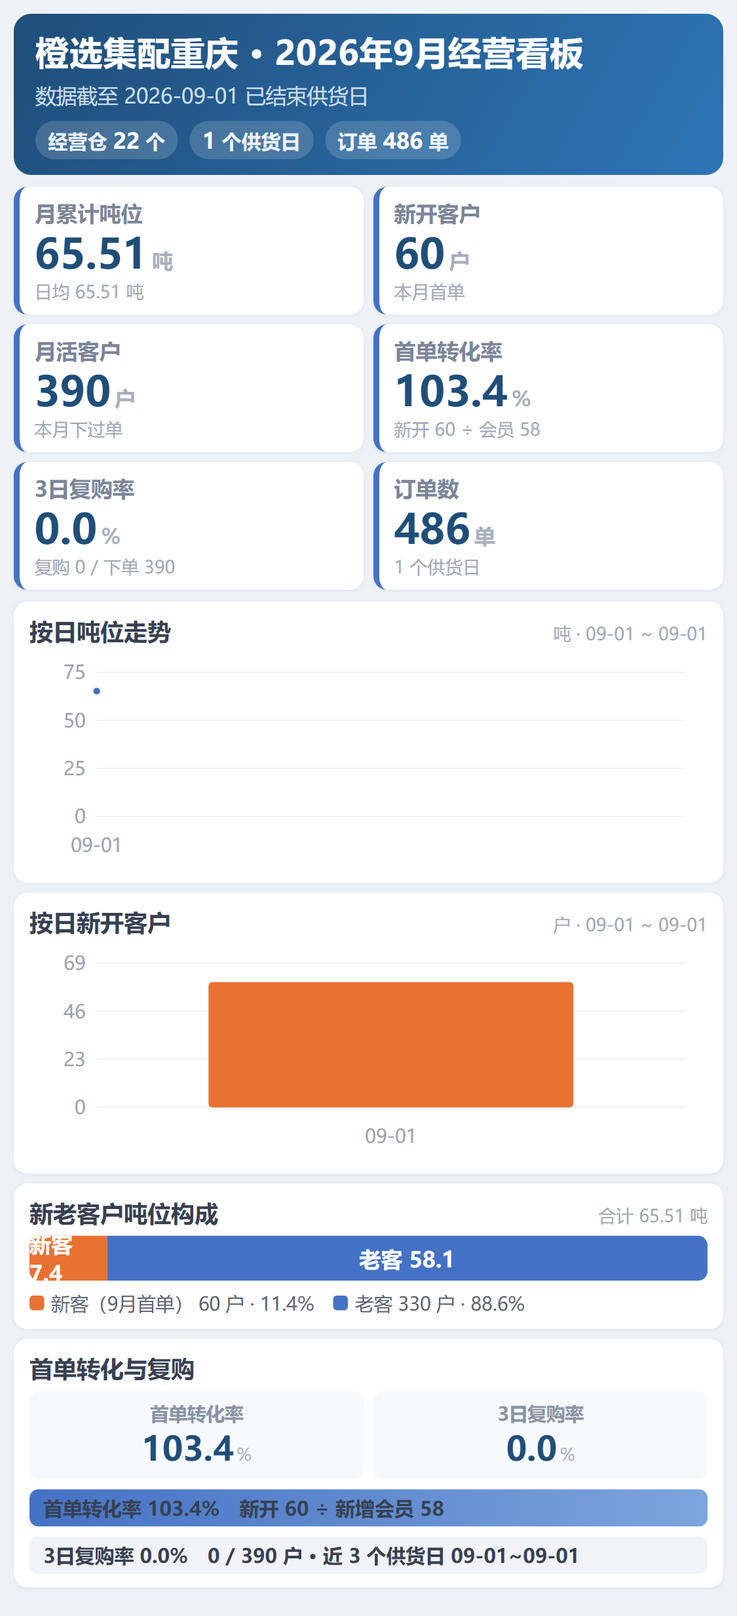
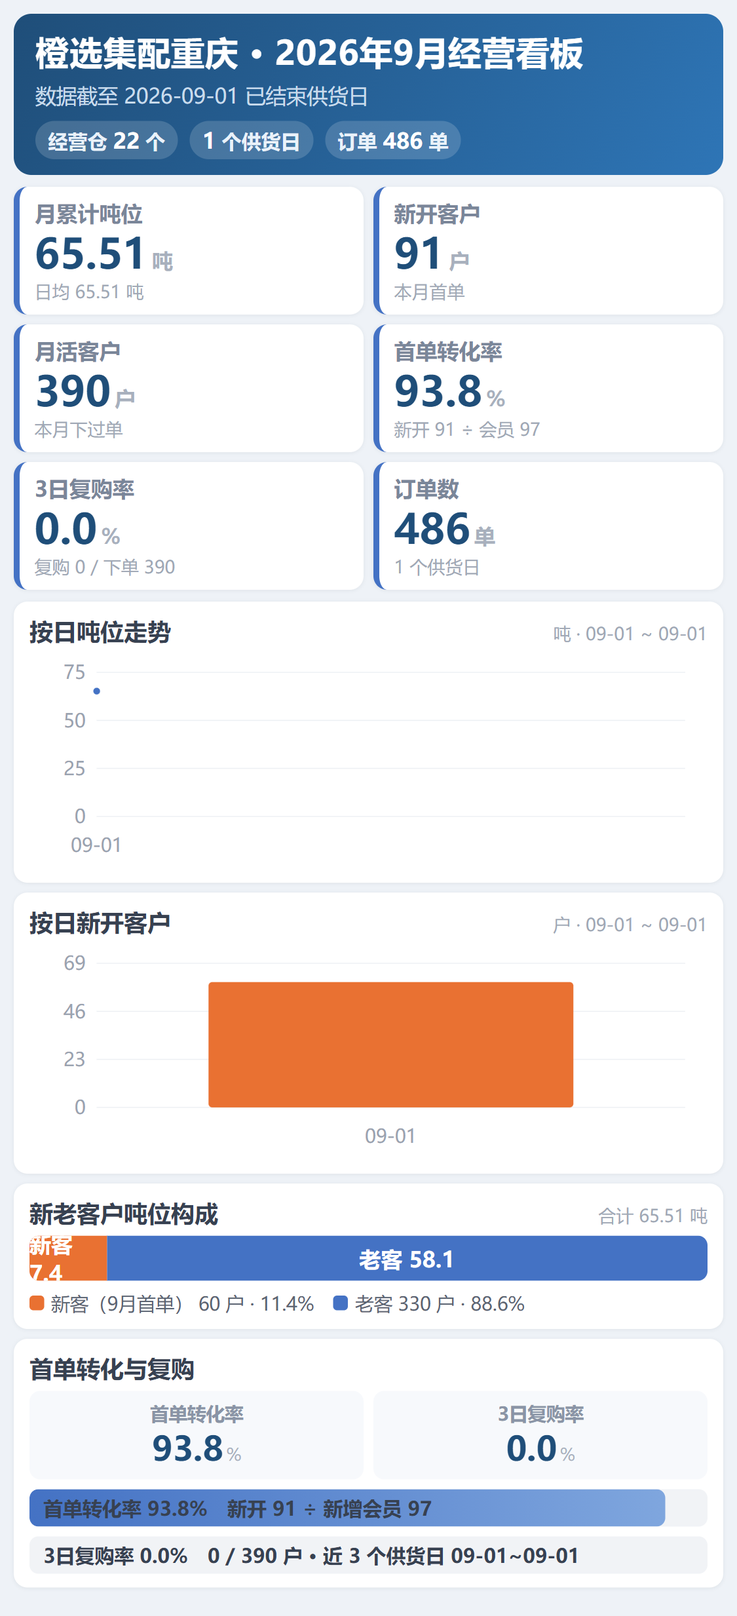
自动更新日报图片

diff --git a/RunBoard_202609.html b/RunBoard_202609.html
@@ -135,7 +135,7 @@ font-weight:800;display:flex;align-items:center;justify-content:center;flex:none
 <div class="wrap">
   <div class="hdr">
     <div class="brand">橙选集配重庆 · 2026年9月经营看板</div>
-    <div class="sub">数据截至 2026-09-01 供货日（已完成） · 抓取 2026-09-01 18:07</div>
+    <div class="sub">数据截至 2026-09-01 供货日（已完成） · 抓取 2026-09-02 14:43</div>
   </div>
 
   <div class="tabs">
@@ -199,7 +199,7 @@ font-weight:800;display:flex;align-items:center;justify-content:center;flex:none
     <div id="shCat"></div>
   </div>
 </div>
-<script>window.__DATA__ = {"total": {"ton": 65.51, "stat_day": "09-01", "stat_day_full": "2026-09-01", "last_day": "2026-09-01", "last_day_ton": 65.51, "new_cust": 60, "new_member": 58, "month_active": 390, "first_conv": 1.0344827586206897, "first_conv_strict": 0.25862068965517243, "new_and_reg": 15, "r3": {"base": 390, "repeat": 0, "rate": 0.0, "d1": 390, "d2": 0, "d3": 0}, "days": 1, "order_cnt": 486, "avg_day_ton": 65.51, "done_days": 1, "done_ton": 65.51, "recent3": ["09-01"], "plat_new_n": 60, "plat_new_ton": 7.44, "plat_old_n": 330, "plat_old_ton": 58.07, "wh_active_n": 22, "wh_closed_n": 0, "wh_total_n": 22, "active_month_active": 390, "active_order_cnt": 486, "active_ton": 65.51, "active_r3": {"base": 390, "repeat": 0, "rate": 0.0, "d1": 390, "d2": 0, "d3": 0}, "new_in_active": 60, "active_first_conv": 1.0344827586206897, "plat_top_cust": [{"name": "冉兴兰", "ton": 13.3}, {"name": "闫四", "ton": 1.34}, {"name": "惠优水果超市一校店", "ton": 1.25}, {"name": "杨超伟", "ton": 1.25}, {"name": "老板", "ton": 1.23}, {"name": "罗老板", "ton": 1.1}, {"name": "刘颖", "ton": 1.09}, {"name": "宏展超市", "ton": 1.07}, {"name": "城西二楼116刘群华", "ton": 0.93}, {"name": "小刘蔬菜", "ton": 0.64}], "plat_top_item": [{"name": "【品牌】云南一级洗小葱26斤泡沫箱", "cust": 62, "ton": 4.96}, {"name": "云南昭通一级油麦菜大件大颗油麦菜泡沫箱", "cust": 45, "ton": 3.46}, {"name": "云南一级香菜19斤泡沫箱", "cust": 45, "ton": 1.09}, {"name": "云南一级筐西红柿粉果带把毛重40-42斤", "cust": 37, "ton": 1.26}, {"name": "云南二级油麦菜净重32斤泡沫箱", "cust": 29, "ton": 0.9}, {"name": "云南一级基地直供生菜大件泡沫箱", "cust": 28, "ton": 1.16}, {"name": "老挝B级活动款香蕉二黄24斤/件4-5号色", "cust": 26, "ton": 1.41}, {"name": "云南一级大水白菜泡沫箱大件", "cust": 21, "ton": 0.65}, {"name": "陕西省一级陕西沙地3两至6两黄心大土豆袋3两至6两", "cust": 20, "ton": 0.7}, {"name": "兰州一级散花菜30斤/件泡沫箱", "cust": 20, "ton": 0.56}], "plat_top_cat": [{"name": "蔬菜", "ton": 58.15}, {"name": "国产水果", "ton": 6.03}, {"name": "酒水饮料", "ton": 0.46}, {"name": "米面油蛋", "ton": 0.44}, {"name": "进口精品水果", "ton": 0.33}, {"name": "调料干货", "ton": 0.06}, {"name": "果篮/包材", "ton": 0.04}]}, "wh": [{"wh": "南川仓", "day_ton": 13.303799999999999, "recent3_ton": 13.304, "status": "active", "month_ton": 13.303799999999999, "avg_ton": 13.303799999999999, "active": 1, "order_cnt": 7, "per_order_ton": 1.900542857142857, "per_cust_ton": 13.303799999999999, "r3_base": 1, "r3_repeat": 0, "r3_rate": 0.0, "detail": {"series": [{"day": "09-01", "ton": 13.304}], "new_n": 0, "new_ton": 0, "old_n": 1, "old_ton": 13.3, "top_cust": [{"name": "冉兴兰", "ton": 13.3}], "top_item": [{"name": "云南二级李二水洗葱细小葱泡沫箱", "cust": 1, "ton": 7.06}, {"name": "陕西省一级陕西黄心土豆6两起袋净重50斤", "cust": 1, "ton": 2.51}, {"name": "重庆二级蜜本老南瓜80斤/袋", "cust": 1, "ton": 1.2}, {"name": "广西二级密本南瓜老南瓜", "cust": 1, "ton": 0.72}, {"name": "老挝B级【能驰果品】二级香蕉二黄24斤4-5号色", "cust": 1, "ton": 0.56}], "top_cat": [{"name": "蔬菜", "ton": 12.39}, {"name": "国产水果", "ton": 0.91}]}}, {"wh": "巴中仓", "day_ton": 7.822, "recent3_ton": 7.822, "status": "active", "month_ton": 7.822, "avg_ton": 7.822, "active": 39, "order_cnt": 47, "per_order_ton": 0.16642553191489362, "per_cust_ton": 0.20056410256410256, "r3_base": 39, "r3_repeat": 0, "r3_rate": 0.0, "detail": {"series": [{"day": "09-01", "ton": 7.822}], "new_n": 0, "new_ton": 0, "old_n": 39, "old_ton": 7.82, "top_cust": [{"name": "城西二楼116刘群华", "ton": 0.93}, {"name": "庞清匀", "ton": 0.51}, {"name": "王焕明", "ton": 0.46}, {"name": "厨小满", "ton": 0.44}, {"name": "彭", "ton": 0.4}], "top_item": [{"name": "【品牌】云南一级洗小葱26斤泡沫箱", "cust": 12, "ton": 2.02}, {"name": "云南一级筐西红柿粉果带把毛重40-42斤", "cust": 9, "ton": 0.4}, {"name": "云南一级香菜19斤泡沫箱", "cust": 9, "ton": 0.3}, {"name": "云南二级李二水洗葱细小葱泡沫箱", "cust": 8, "ton": 0.53}, {"name": "山东二级蒜米（中号）40斤（5斤/包）袋", "cust": 7, "ton": 0.36}], "top_cat": [{"name": "蔬菜", "ton": 7.7}, {"name": "国产水果", "ton": 0.06}, {"name": "果篮/包材", "ton": 0.04}, {"name": "进口精品水果", "ton": 0.02}]}}, {"wh": "开州仓", "day_ton": 7.5013, "recent3_ton": 7.501, "status": "active", "month_ton": 7.5013, "avg_ton": 7.5013, "active": 36, "order_cnt": 52, "per_order_ton": 0.14425576923076922, "per_cust_ton": 0.20836944444444444, "r3_base": 36, "r3_repeat": 0, "r3_rate": 0.0, "detail": {"series": [{"day": "09-01", "ton": 7.501}], "new_n": 1, "new_ton": 0.39, "old_n": 35, "old_ton": 7.11, "top_cust": [{"name": "惠优水果超市一校店", "ton": 1.25}, {"name": "罗老板", "ton": 1.1}, {"name": "宏展超市", "ton": 1.07}, {"name": "小刘蔬菜", "ton": 0.64}, {"name": "乐尔乐生鲜超市", "ton": 0.48}], "top_item": [{"name": "云南一级筐西红柿粉果带把毛重40-42斤", "cust": 8, "ton": 0.36}, {"name": "云南一级基地直供生菜大件泡沫箱", "cust": 5, "ton": 0.32}, {"name": "云南一级香菜19斤泡沫箱", "cust": 5, "ton": 0.12}, {"name": "老挝B级活动款香蕉二黄24斤/件4-5号色", "cust": 4, "ton": 0.56}, {"name": "兰州一级散花菜30斤/件泡沫箱", "cust": 4, "ton": 0.14}], "top_cat": [{"name": "蔬菜", "ton": 5.1}, {"name": "国产水果", "ton": 2.16}, {"name": "进口精品水果", "ton": 0.2}, {"name": "调料干货", "ton": 0.05}]}}, {"wh": "彭水仓", "day_ton": 4.5632, "recent3_ton": 4.563, "status": "active", "month_ton": 4.5632, "avg_ton": 4.5632, "active": 22, "order_cnt": 30, "per_order_ton": 0.15210666666666667, "per_cust_ton": 0.20741818181818183, "r3_base": 22, "r3_repeat": 0, "r3_rate": 0.0, "detail": {"series": [{"day": "09-01", "ton": 4.563}], "new_n": 2, "new_ton": 1.54, "old_n": 20, "old_ton": 3.02, "top_cust": [{"name": "老板", "ton": 1.23}, {"name": "高可会", "ton": 0.38}, {"name": "老板", "ton": 0.34}, {"name": "老板", "ton": 0.34}, {"name": "刘老板", "ton": 0.31}], "top_item": [{"name": "【品牌】云南一级洗小葱26斤泡沫箱", "cust": 6, "ton": 0.3}, {"name": "云南二级李二水洗葱细小葱泡沫箱", "cust": 5, "ton": 0.18}, {"name": "云南一级香菜19斤泡沫箱", "cust": 4, "ton": 0.07}, {"name": "兰州一级散花菜30斤/件泡沫箱", "cust": 3, "ton": 0.14}, {"name": "陕西省一级中号胡萝卜20斤袋", "cust": 3, "ton": 0.12}], "top_cat": [{"name": "蔬菜", "ton": 4.34}, {"name": "国产水果", "ton": 0.21}, {"name": "进口精品水果", "ton": 0.02}]}}, {"wh": "渠县仓", "day_ton": 3.517, "recent3_ton": 3.517, "status": "active", "month_ton": 3.517, "avg_ton": 3.517, "active": 36, "order_cnt": 45, "per_order_ton": 0.07815555555555555, "per_cust_ton": 0.09769444444444444, "r3_base": 36, "r3_repeat": 0, "r3_rate": 0.0, "detail": {"series": [{"day": "09-01", "ton": 3.517}], "new_n": 15, "new_ton": 0.97, "old_n": 21, "old_ton": 2.55, "top_cust": [{"name": "李晓伟", "ton": 0.51}, {"name": "催哥，凌晨3点之前", "ton": 0.27}, {"name": "方姐（第五幼儿园对面）", "ton": 0.19}, {"name": "蒋姐", "ton": 0.16}, {"name": "赖姐", "ton": 0.16}], "top_item": [{"name": "【品牌】云南一级洗小葱26斤泡沫箱", "cust": 7, "ton": 0.24}, {"name": "陕西省一级陕西沙地3两至6两黄心大土豆袋3两至6两", "cust": 6, "ton": 0.15}, {"name": "云南一级筐西红柿粉果带把毛重40-42斤", "cust": 5, "ton": 0.13}, {"name": "云南昭通一级油麦菜大件大颗油麦菜泡沫箱", "cust": 4, "ton": 0.4}, {"name": "云南一级水洗白小葱26斤/件泡沫箱", "cust": 3, "ton": 0.11}], "top_cat": [{"name": "蔬菜", "ton": 3.35}, {"name": "国产水果", "ton": 0.17}]}}, {"wh": "达州仓", "day_ton": 2.8594, "recent3_ton": 2.859, "status": "active", "month_ton": 2.8594, "avg_ton": 2.8594, "active": 32, "order_cnt": 34, "per_order_ton": 0.0841, "per_cust_ton": 0.08935625, "r3_base": 32, "r3_repeat": 0, "r3_rate": 0.0, "detail": {"series": [{"day": "09-01", "ton": 2.859}], "new_n": 0, "new_ton": 0, "old_n": 32, "old_ton": 2.86, "top_cust": [{"name": "杨姐", "ton": 0.26}, {"name": "邵姐", "ton": 0.24}, {"name": "臻鲜坊", "ton": 0.2}, {"name": "张哥", "ton": 0.2}, {"name": "刘姐", "ton": 0.18}], "top_item": [{"name": "云南昭通一级油麦菜大件大颗油麦菜泡沫箱", "cust": 6, "ton": 0.43}, {"name": "云南一级香菜19斤泡沫箱", "cust": 6, "ton": 0.1}, {"name": "云南一级精品牛心白15斤袋装袋", "cust": 4, "ton": 0.07}, {"name": "云南二级筐西红柿红果4层毛重40-42", "cust": 3, "ton": 0.18}, {"name": "云南二级油麦菜净重32斤泡沫箱", "cust": 3, "ton": 0.1}], "top_cat": [{"name": "蔬菜", "ton": 2.64}, {"name": "国产水果", "ton": 0.2}, {"name": "进口精品水果", "ton": 0.02}]}}, {"wh": "万州仓", "day_ton": 2.6710000000000003, "recent3_ton": 2.671, "status": "active", "month_ton": 2.6710000000000003, "avg_ton": 2.6710000000000003, "active": 25, "order_cnt": 30, "per_order_ton": 0.08903333333333334, "per_cust_ton": 0.10684, "r3_base": 25, "r3_repeat": 0, "r3_rate": 0.0, "detail": {"series": [{"day": "09-01", "ton": 2.671}], "new_n": 1, "new_ton": 0.07, "old_n": 24, "old_ton": 2.6, "top_cust": [{"name": "徐老板", "ton": 0.37}, {"name": "王小琴", "ton": 0.17}, {"name": "骆明献", "ton": 0.17}, {"name": "张", "ton": 0.16}, {"name": "丁姐", "ton": 0.16}], "top_item": [{"name": "老挝B级活动款香蕉二黄24斤/件4-5号色", "cust": 6, "ton": 0.3}, {"name": "云南昭通一级油麦菜大件大颗油麦菜泡沫箱", "cust": 5, "ton": 0.23}, {"name": "四川宜宾二级大号脆藕净重30斤泡沫箱", "cust": 3, "ton": 0.13}, {"name": "云南一级基地直供生菜大件泡沫箱", "cust": 3, "ton": 0.12}, {"name": "品牌云南一级大水白菜泡沫箱47", "cust": 3, "ton": 0.07}], "top_cat": [{"name": "蔬菜", "ton": 2.06}, {"name": "国产水果", "ton": 0.58}, {"name": "进口精品水果", "ton": 0.03}]}}, {"wh": "广安仓", "day_ton": 2.5858, "recent3_ton": 2.586, "status": "active", "month_ton": 2.5858, "avg_ton": 2.5858, "active": 17, "order_cnt": 23, "per_order_ton": 0.11242608695652173, "per_cust_ton": 0.15210588235294117, "r3_base": 17, "r3_repeat": 0, "r3_rate": 0.0, "detail": {"series": [{"day": "09-01", "ton": 2.586}], "new_n": 2, "new_ton": 0.58, "old_n": 15, "old_ton": 2.0, "top_cust": [{"name": "刘建军", "ton": 0.44}, {"name": "黄银城", "ton": 0.3}, {"name": "赵老板", "ton": 0.28}, {"name": "易老板", "ton": 0.24}, {"name": "袁小利", "ton": 0.22}], "top_item": [{"name": "【品牌】云南一级洗小葱26斤泡沫箱", "cust": 9, "ton": 1.36}, {"name": "云南一级香菜19斤泡沫箱", "cust": 3, "ton": 0.05}, {"name": "陕西省一级陕西黄心土豆6两起袋净重50斤", "cust": 2, "ton": 0.08}, {"name": "云南昭通一级油麦菜大件大颗油麦菜泡沫箱", "cust": 2, "ton": 0.07}, {"name": "广西二级仔姜净重8斤泡沫箱", "cust": 2, "ton": 0.05}], "top_cat": [{"name": "蔬菜", "ton": 2.52}, {"name": "国产水果", "ton": 0.07}]}}, {"wh": "奉节仓", "day_ton": 2.525, "recent3_ton": 2.525, "status": "active", "month_ton": 2.525, "avg_ton": 2.525, "active": 20, "order_cnt": 24, "per_order_ton": 0.10520833333333333, "per_cust_ton": 0.12625, "r3_base": 20, "r3_repeat": 0, "r3_rate": 0.0, "detail": {"series": [{"day": "09-01", "ton": 2.525}], "new_n": 14, "new_ton": 1.87, "old_n": 6, "old_ton": 0.66, "top_cust": [{"name": "老板", "ton": 0.45}, {"name": "陈姐", "ton": 0.36}, {"name": "黄姐", "ton": 0.31}, {"name": "黄姐", "ton": 0.19}, {"name": "东江宾馆", "ton": 0.13}], "top_item": [{"name": "云南昭通一级油麦菜大件大颗油麦菜泡沫箱", "cust": 6, "ton": 0.53}, {"name": "广西二级仔姜特价白口仔姜净重8斤泡沫箱", "cust": 4, "ton": 0.04}, {"name": "云南昭通一级油麦菜净重50斤泡沫箱", "cust": 3, "ton": 0.43}, {"name": "云南二级油麦菜净重32斤泡沫箱", "cust": 3, "ton": 0.05}, {"name": "【农夫山泉】饮用纯净水12瓶*550ml", "cust": 2, "ton": 0.26}], "top_cat": [{"name": "蔬菜", "ton": 2.14}, {"name": "酒水饮料", "ton": 0.26}, {"name": "国产水果", "ton": 0.12}]}}, {"wh": "遂宁仓", "day_ton": 2.3968000000000003, "recent3_ton": 2.397, "status": "active", "month_ton": 2.3968000000000003, "avg_ton": 2.3968000000000003, "active": 17, "order_cnt": 22, "per_order_ton": 0.10894545454545455, "per_cust_ton": 0.14098823529411766, "r3_base": 17, "r3_repeat": 0, "r3_rate": 0.0, "detail": {"series": [{"day": "09-01", "ton": 2.397}], "new_n": 5, "new_ton": 0.16, "old_n": 12, "old_ton": 2.24, "top_cust": [{"name": "闫四", "ton": 1.34}, {"name": "夏老板", "ton": 0.24}, {"name": "老板", "ton": 0.11}, {"name": "王三哥", "ton": 0.09}, {"name": "老板", "ton": 0.08}], "top_item": [{"name": "云南二级油麦菜净重32斤泡沫箱", "cust": 3, "ton": 0.13}, {"name": "云南一级香菜19斤泡沫箱", "cust": 3, "ton": 0.08}, {"name": "云南昭通一级油麦菜大件大颗油麦菜泡沫箱", "cust": 2, "ton": 0.1}, {"name": "云南昭通一级油麦菜净重55斤泡沫箱", "cust": 2, "ton": 0.07}, {"name": "云南一级基地直供生菜大件泡沫箱", "cust": 2, "ton": 0.06}], "top_cat": [{"name": "蔬菜", "ton": 2.38}, {"name": "国产水果", "ton": 0.01}]}}, {"wh": "大足仓", "day_ton": 1.9942, "recent3_ton": 1.994, "status": "active", "month_ton": 1.9942, "avg_ton": 1.9942, "active": 8, "order_cnt": 11, "per_order_ton": 0.18129090909090909, "per_cust_ton": 0.249275, "r3_base": 8, "r3_repeat": 0, "r3_rate": 0.0, "detail": {"series": [{"day": "09-01", "ton": 1.994}], "new_n": 0, "new_ton": 0, "old_n": 8, "old_ton": 1.99, "top_cust": [{"name": "杨超伟", "ton": 1.25}, {"name": "周", "ton": 0.23}, {"name": "龙水蔬菜批发", "ton": 0.22}, {"name": "李老板", "ton": 0.11}, {"name": "杨长萍", "ton": 0.08}], "top_item": [{"name": "陕西三级新黄皮黄心土豆大袋6两起", "cust": 2, "ton": 0.25}, {"name": "云南昭通一级油麦菜净重55斤泡沫箱", "cust": 2, "ton": 0.24}, {"name": "【品牌】云南一级洗小葱26斤泡沫箱", "cust": 2, "ton": 0.04}, {"name": "云南一级红小米辣净重19斤/件泡沫箱", "cust": 2, "ton": 0.02}, {"name": "四川二级薄皮青椒25斤净重纸箱", "cust": 1, "ton": 0.14}], "top_cat": [{"name": "蔬菜", "ton": 1.93}, {"name": "国产水果", "ton": 0.06}]}}, {"wh": "合川仓", "day_ton": 1.827, "recent3_ton": 1.827, "status": "active", "month_ton": 1.827, "avg_ton": 1.827, "active": 20, "order_cnt": 27, "per_order_ton": 0.06766666666666667, "per_cust_ton": 0.09135, "r3_base": 20, "r3_repeat": 0, "r3_rate": 0.0, "detail": {"series": [{"day": "09-01", "ton": 1.827}], "new_n": 0, "new_ton": 0, "old_n": 20, "old_ton": 1.83, "top_cust": [{"name": "林老板", "ton": 0.36}, {"name": "杨", "ton": 0.19}, {"name": "邓英", "ton": 0.18}, {"name": "李", "ton": 0.13}, {"name": "陈老板", "ton": 0.12}], "top_item": [{"name": "陕西省一级陕西沙地3两至6两黄心大土豆袋3两至6两", "cust": 4, "ton": 0.15}, {"name": "陕西二级市场黄心土豆6两起袋净重50斤", "cust": 3, "ton": 0.13}, {"name": "云南二级筐西红柿红果4层毛重40-42", "cust": 3, "ton": 0.06}, {"name": "【品牌】云南一级洗小葱26斤泡沫箱", "cust": 3, "ton": 0.06}, {"name": "老挝B级活动款香蕉二黄24斤/件4-5号色", "cust": 3, "ton": 0.05}], "top_cat": [{"name": "蔬菜", "ton": 1.56}, {"name": "国产水果", "ton": 0.23}, {"name": "进口精品水果", "ton": 0.02}, {"name": "调料干货", "ton": 0.01}]}}, {"wh": "城口仓", "day_ton": 1.724, "recent3_ton": 1.724, "status": "active", "month_ton": 1.724, "avg_ton": 1.724, "active": 15, "order_cnt": 17, "per_order_ton": 0.10141176470588235, "per_cust_ton": 0.11493333333333333, "r3_base": 15, "r3_repeat": 0, "r3_rate": 0.0, "detail": {"series": [{"day": "09-01", "ton": 1.724}], "new_n": 0, "new_ton": 0, "old_n": 15, "old_ton": 1.72, "top_cust": [{"name": "甘老板娘", "ton": 0.44}, {"name": "城口海超蔬菜", "ton": 0.27}, {"name": "城口兴超蔬菜水果批发", "ton": 0.17}, {"name": "城口鑫洋生鲜超市", "ton": 0.12}, {"name": "曾姐", "ton": 0.11}], "top_item": [{"name": "四川宜宾二级大号脆藕净重30斤泡沫箱", "cust": 4, "ton": 0.07}, {"name": "云南一级红小米辣净重19斤/件泡沫箱", "cust": 3, "ton": 0.03}, {"name": "云南昭通一级油麦菜大件大颗油麦菜泡沫箱", "cust": 2, "ton": 0.07}, {"name": "云南一级筐西红柿粉果带把毛重40-42斤", "cust": 2, "ton": 0.04}, {"name": "银川一级活动款银川白玉山药白玉山药面山药20斤袋装袋", "cust": 2, "ton": 0.04}], "top_cat": [{"name": "蔬菜", "ton": 1.16}, {"name": "米面油蛋", "ton": 0.44}, {"name": "国产水果", "ton": 0.12}]}}, {"wh": "涪陵仓", "day_ton": 1.6095, "recent3_ton": 1.609, "status": "active", "month_ton": 1.6095, "avg_ton": 1.6095, "active": 18, "order_cnt": 20, "per_order_ton": 0.08047499999999999, "per_cust_ton": 0.08941666666666666, "r3_base": 18, "r3_repeat": 0, "r3_rate": 0.0, "detail": {"series": [{"day": "09-01", "ton": 1.609}], "new_n": 1, "new_ton": 0.09, "old_n": 17, "old_ton": 1.52, "top_cust": [{"name": "零小贤生鲜果蔬", "ton": 0.22}, {"name": "周老板", "ton": 0.22}, {"name": "新纪元陈兴琪", "ton": 0.16}, {"name": "老板", "ton": 0.14}, {"name": "瞿先生", "ton": 0.12}], "top_item": [{"name": "云南一级基地直供生菜大件泡沫箱", "cust": 2, "ton": 0.12}, {"name": "【品牌】云南一级洗小葱26斤泡沫箱", "cust": 2, "ton": 0.06}, {"name": "品牌云南一级竹筒白泡沫箱54", "cust": 2, "ton": 0.05}, {"name": "河南二级大蒜5.0-5.5大蒜20斤袋", "cust": 2, "ton": 0.03}, {"name": "四川B级【泓渝】嘉秀6号口口脆2号箱纸箱", "cust": 2, "ton": 0.02}], "top_cat": [{"name": "蔬菜", "ton": 1.24}, {"name": "国产水果", "ton": 0.37}]}}, {"wh": "黔江仓", "day_ton": 1.5033, "recent3_ton": 1.503, "status": "active", "month_ton": 1.5033, "avg_ton": 1.5033, "active": 19, "order_cnt": 23, "per_order_ton": 0.06536086956521739, "per_cust_ton": 0.07912105263157895, "r3_base": 19, "r3_repeat": 0, "r3_rate": 0.0, "detail": {"series": [{"day": "09-01", "ton": 1.503}], "new_n": 1, "new_ton": 0.08, "old_n": 18, "old_ton": 1.42, "top_cust": [{"name": "凯旭蔬菜配送", "ton": 0.18}, {"name": "U鲜果", "ton": 0.17}, {"name": "何哥", "ton": 0.14}, {"name": "黄姐", "ton": 0.12}, {"name": "高姐", "ton": 0.12}], "top_item": [{"name": "【品牌】云南一级洗小葱26斤泡沫箱", "cust": 4, "ton": 0.08}, {"name": "【品牌】兰州一级八条西兰花原件小件净重15斤泡沫箱", "cust": 3, "ton": 0.04}, {"name": "云南昭通一级油麦菜大件大颗油麦菜泡沫箱", "cust": 2, "ton": 0.1}, {"name": "【品牌】甘肃一级泡沫箱散花菜35泡沫箱", "cust": 2, "ton": 0.06}, {"name": "云南一级精品牛心白30斤30斤泡沫箱", "cust": 2, "ton": 0.05}], "top_cat": [{"name": "蔬菜", "ton": 1.09}, {"name": "国产水果", "ton": 0.34}, {"name": "酒水饮料", "ton": 0.06}, {"name": "进口精品水果", "ton": 0.02}]}}, {"wh": "宣汉仓", "day_ton": 1.427, "recent3_ton": 1.427, "status": "active", "month_ton": 1.427, "avg_ton": 1.427, "active": 12, "order_cnt": 16, "per_order_ton": 0.0891875, "per_cust_ton": 0.11891666666666667, "r3_base": 12, "r3_repeat": 0, "r3_rate": 0.0, "detail": {"series": [{"day": "09-01", "ton": 1.427}], "new_n": 0, "new_ton": 0, "old_n": 12, "old_ton": 1.43, "top_cust": [{"name": "陈老板", "ton": 0.51}, {"name": "曾", "ton": 0.35}, {"name": "熊安兵", "ton": 0.16}, {"name": "老板", "ton": 0.11}, {"name": "老板", "ton": 0.06}], "top_item": [{"name": "云南昭通一级油麦菜大件大颗油麦菜泡沫箱", "cust": 2, "ton": 0.1}, {"name": "云南一级水洗白小葱26斤/件泡沫箱", "cust": 2, "ton": 0.07}, {"name": "云南二级油麦菜净重32斤泡沫箱", "cust": 2, "ton": 0.06}, {"name": "重庆一级大号藕30斤泡沫箱", "cust": 2, "ton": 0.06}, {"name": "云南一级筐西红柿粉果带把毛重40-42斤", "cust": 2, "ton": 0.06}], "top_cat": [{"name": "蔬菜", "ton": 1.42}, {"name": "国产水果", "ton": 0.01}]}}, {"wh": "大竹仓", "day_ton": 1.3875, "recent3_ton": 1.387, "status": "active", "month_ton": 1.3875, "avg_ton": 1.3875, "active": 14, "order_cnt": 14, "per_order_ton": 0.09910714285714285, "per_cust_ton": 0.09910714285714285, "r3_base": 14, "r3_repeat": 0, "r3_rate": 0.0, "detail": {"series": [{"day": "09-01", "ton": 1.387}], "new_n": 10, "new_ton": 0.92, "old_n": 4, "old_ton": 0.46, "top_cust": [{"name": "波波果蔬", "ton": 0.29}, {"name": "江哥", "ton": 0.25}, {"name": "罗姐", "ton": 0.14}, {"name": "杨哥", "ton": 0.13}, {"name": "黄老板", "ton": 0.11}], "top_item": [{"name": "【品牌】云南一级洗小葱26斤泡沫箱", "cust": 4, "ton": 0.1}, {"name": "云南一级大水白菜泡沫箱大件", "cust": 3, "ton": 0.08}, {"name": "陕西二级市场黄心土豆6两起袋净重50斤", "cust": 2, "ton": 0.08}, {"name": "云南昭通一级油麦菜大件大颗油麦菜泡沫箱", "cust": 2, "ton": 0.07}, {"name": "云南一级基地直供生菜大件泡沫箱", "cust": 2, "ton": 0.06}], "top_cat": [{"name": "蔬菜", "ton": 1.28}, {"name": "国产水果", "ton": 0.11}]}}, {"wh": "巫山仓", "day_ton": 1.3055, "recent3_ton": 1.306, "status": "active", "month_ton": 1.3055, "avg_ton": 1.3055, "active": 13, "order_cnt": 13, "per_order_ton": 0.10042307692307693, "per_cust_ton": 0.10042307692307693, "r3_base": 13, "r3_repeat": 0, "r3_rate": 0.0, "detail": {"series": [{"day": "09-01", "ton": 1.306}], "new_n": 7, "new_ton": 0.76, "old_n": 6, "old_ton": 0.54, "top_cust": [{"name": "郭", "ton": 0.33}, {"name": "云哥", "ton": 0.17}, {"name": "弋老板", "ton": 0.13}, {"name": "陈增兰", "ton": 0.12}, {"name": "李哥", "ton": 0.11}], "top_item": [{"name": "云南昭通一级油麦菜大件大颗油麦菜泡沫箱", "cust": 3, "ton": 0.26}, {"name": "云南二级染红土老姜干姜普通净重37斤袋", "cust": 2, "ton": 0.13}, {"name": "甘肃一级红洋葱粉皮洋葱4两起80斤/袋", "cust": 2, "ton": 0.12}, {"name": "江苏一级大蒜6.5江苏蒜净重40斤袋", "cust": 2, "ton": 0.04}, {"name": "云南一级香菜19斤泡沫箱", "cust": 2, "ton": 0.03}], "top_cat": [{"name": "蔬菜", "ton": 1.28}, {"name": "酒水饮料", "ton": 0.01}, {"name": "国产水果", "ton": 0.01}]}}, {"wh": "铜梁仓", "day_ton": 1.1953, "recent3_ton": 1.195, "status": "active", "month_ton": 1.1953, "avg_ton": 1.1953, "active": 2, "order_cnt": 2, "per_order_ton": 0.59765, "per_cust_ton": 0.59765, "r3_base": 2, "r3_repeat": 0, "r3_rate": 0.0, "detail": {"series": [{"day": "09-01", "ton": 1.195}], "new_n": 0, "new_ton": 0, "old_n": 2, "old_ton": 1.2, "top_cust": [{"name": "刘颖", "ton": 1.09}, {"name": "金泉超市总账号", "ton": 0.1}], "top_item": [{"name": "云南昭通一级油麦菜大件大颗油麦菜泡沫箱", "cust": 1, "ton": 0.2}, {"name": "云南一级生菜大件泡沫箱", "cust": 1, "ton": 0.14}, {"name": "甘肃天水B级【溶柒森】（新苹果）红富士70—75#", "cust": 1, "ton": 0.1}, {"name": "【品牌】重庆二级二脆莲白50散装", "cust": 1, "ton": 0.1}, {"name": "广西二级仔姜普通仔姜8斤/件泡沫箱", "cust": 1, "ton": 0.09}], "top_cat": [{"name": "蔬菜", "ton": 1.09}, {"name": "国产水果", "ton": 0.1}]}}, {"wh": "忠县仓", "day_ton": 1.0006, "recent3_ton": 1.001, "status": "active", "month_ton": 1.0006, "avg_ton": 1.0006, "active": 16, "order_cnt": 17, "per_order_ton": 0.05885882352941176, "per_cust_ton": 0.0625375, "r3_base": 16, "r3_repeat": 0, "r3_rate": 0.0, "detail": {"series": [{"day": "09-01", "ton": 1.001}], "new_n": 0, "new_ton": 0, "old_n": 16, "old_ton": 1.0, "top_cust": [{"name": "刘老板", "ton": 0.12}, {"name": "张老板", "ton": 0.12}, {"name": "蒋淑梅", "ton": 0.1}, {"name": "张老板", "ton": 0.09}, {"name": "吴姐1号摊位", "ton": 0.08}], "top_item": [{"name": "【品牌】云南一级洗小葱26斤泡沫箱", "cust": 3, "ton": 0.1}, {"name": "【高复购】陕西二级白萝卜净重59斤袋", "cust": 2, "ton": 0.09}, {"name": "云南一级基地直供生菜大件泡沫箱", "cust": 2, "ton": 0.06}, {"name": "云南一级香菜19斤泡沫箱", "cust": 2, "ton": 0.05}, {"name": "【品牌】山东一级优质黄瓜净重40斤泡沫箱", "cust": 2, "ton": 0.05}], "top_cat": [{"name": "蔬菜", "ton": 0.88}, {"name": "国产水果", "ton": 0.12}]}}, {"wh": "开江仓", "day_ton": 0.6701, "recent3_ton": 0.67, "status": "active", "month_ton": 0.6701, "avg_ton": 0.6701, "active": 7, "order_cnt": 11, "per_order_ton": 0.06091818181818182, "per_cust_ton": 0.09572857142857143, "r3_base": 7, "r3_repeat": 0, "r3_rate": 0.0, "detail": {"series": [{"day": "09-01", "ton": 0.67}], "new_n": 1, "new_ton": 0.0, "old_n": 6, "old_ton": 0.67, "top_cust": [{"name": "陈总", "ton": 0.25}, {"name": "罗姐", "ton": 0.22}, {"name": "马总", "ton": 0.12}, {"name": "吴老板", "ton": 0.04}, {"name": "蒋姐", "ton": 0.02}], "top_item": [{"name": "云南一级上海青泡沫箱小件", "cust": 2, "ton": 0.04}, {"name": "云南昭通一级油麦菜净重50斤泡沫箱", "cust": 1, "ton": 0.07}, {"name": "甘肃一级红洋葱50斤粉皮洋葱3两起大果袋", "cust": 1, "ton": 0.05}, {"name": "云南二级西红柿四层红果不带把筐净重40斤", "cust": 1, "ton": 0.04}, {"name": "宁夏B级金花一号硒砂瓜石头瓜毛重17-24/斤/个", "cust": 1, "ton": 0.04}], "top_cat": [{"name": "蔬菜", "ton": 0.6}, {"name": "国产水果", "ton": 0.07}]}}, {"wh": "双福自提仓", "day_ton": 0.12, "recent3_ton": 0.12, "status": "active", "month_ton": 0.12, "avg_ton": 0.12, "active": 1, "order_cnt": 1, "per_order_ton": 0.12, "per_cust_ton": 0.12, "r3_base": 1, "r3_repeat": 0, "r3_rate": 0.0, "detail": {"series": [{"day": "09-01", "ton": 0.12}], "new_n": 0, "new_ton": 0, "old_n": 1, "old_ton": 0.12, "top_cust": [{"name": "周", "ton": 0.12}], "top_item": [{"name": "新悦天然泉水24瓶*510ml", "cust": 1, "ton": 0.12}], "top_cat": [{"name": "酒水饮料", "ton": 0.12}]}}], "daily": [{"day": "09-01", "ton": 65.509, "cust": 390}], "new_daily": [{"day": "09-01", "n": 60}], "meta": {"year": 2026, "month": 9, "stat_day": "2026-09-01", "in_progress": "2026-09-02", "grab_time": "2026-09-01 18:07", "member_time": "2026-09-01 18:28", "order_file": "订单_202609.xlsx", "member_file": "会员.xlsx", "as_file": "", "range": "2026-09-01 ~ 2026-09-01", "gen_time": "2026-09-02 14:26"}};</script>
+<script>window.__DATA__ = {"total": {"ton": 65.51, "stat_day": "09-01", "stat_day_full": "2026-09-01", "last_day": "2026-09-01", "last_day_ton": 65.51, "new_cust": 91, "new_member": 97, "month_active": 390, "first_conv": 0.9381443298969072, "first_conv_strict": 0.27835051546391754, "new_and_reg": 27, "r3": {"base": 390, "repeat": 0, "rate": 0.0, "d1": 390, "d2": 0, "d3": 0}, "days": 1, "order_cnt": 486, "avg_day_ton": 65.51, "done_days": 1, "done_ton": 65.51, "recent3": ["09-01"], "plat_new_n": 60, "plat_new_ton": 7.44, "plat_old_n": 330, "plat_old_ton": 58.07, "wh_active_n": 22, "wh_closed_n": 0, "wh_total_n": 22, "active_month_active": 390, "active_order_cnt": 486, "active_ton": 65.51, "active_r3": {"base": 390, "repeat": 0, "rate": 0.0, "d1": 390, "d2": 0, "d3": 0}, "new_in_active": 60, "active_first_conv": 0.6185567010309279, "plat_top_cust": [{"name": "冉兴兰", "ton": 13.3}, {"name": "闫四", "ton": 1.34}, {"name": "惠优水果超市一校店", "ton": 1.25}, {"name": "杨超伟", "ton": 1.25}, {"name": "老板", "ton": 1.23}, {"name": "罗老板", "ton": 1.1}, {"name": "刘颖", "ton": 1.09}, {"name": "宏展超市", "ton": 1.07}, {"name": "城西二楼116刘群华", "ton": 0.93}, {"name": "小刘蔬菜", "ton": 0.64}], "plat_top_item": [{"name": "【品牌】云南一级洗小葱26斤泡沫箱", "cust": 62, "ton": 4.96}, {"name": "云南昭通一级油麦菜大件大颗油麦菜泡沫箱", "cust": 45, "ton": 3.46}, {"name": "云南一级香菜19斤泡沫箱", "cust": 45, "ton": 1.09}, {"name": "云南一级筐西红柿粉果带把毛重40-42斤", "cust": 37, "ton": 1.26}, {"name": "云南二级油麦菜净重32斤泡沫箱", "cust": 29, "ton": 0.9}, {"name": "云南一级基地直供生菜大件泡沫箱", "cust": 28, "ton": 1.16}, {"name": "老挝B级活动款香蕉二黄24斤/件4-5号色", "cust": 26, "ton": 1.41}, {"name": "云南一级大水白菜泡沫箱大件", "cust": 21, "ton": 0.65}, {"name": "陕西省一级陕西沙地3两至6两黄心大土豆袋3两至6两", "cust": 20, "ton": 0.7}, {"name": "兰州一级散花菜30斤/件泡沫箱", "cust": 20, "ton": 0.56}], "plat_top_cat": [{"name": "蔬菜", "ton": 58.15}, {"name": "国产水果", "ton": 6.03}, {"name": "酒水饮料", "ton": 0.46}, {"name": "米面油蛋", "ton": 0.44}, {"name": "进口精品水果", "ton": 0.33}, {"name": "调料干货", "ton": 0.06}, {"name": "果篮/包材", "ton": 0.04}]}, "wh": [{"wh": "南川仓", "day_ton": 13.303799999999999, "recent3_ton": 13.304, "status": "active", "month_ton": 13.303799999999999, "avg_ton": 13.303799999999999, "active": 1, "order_cnt": 7, "per_order_ton": 1.900542857142857, "per_cust_ton": 13.303799999999999, "r3_base": 1, "r3_repeat": 0, "r3_rate": 0.0, "detail": {"series": [{"day": "09-01", "ton": 13.304}], "new_n": 0, "new_ton": 0, "old_n": 1, "old_ton": 13.3, "top_cust": [{"name": "冉兴兰", "ton": 13.3}], "top_item": [{"name": "云南二级李二水洗葱细小葱泡沫箱", "cust": 1, "ton": 7.06}, {"name": "陕西省一级陕西黄心土豆6两起袋净重50斤", "cust": 1, "ton": 2.51}, {"name": "重庆二级蜜本老南瓜80斤/袋", "cust": 1, "ton": 1.2}, {"name": "广西二级密本南瓜老南瓜", "cust": 1, "ton": 0.72}, {"name": "老挝B级【能驰果品】二级香蕉二黄24斤4-5号色", "cust": 1, "ton": 0.56}], "top_cat": [{"name": "蔬菜", "ton": 12.39}, {"name": "国产水果", "ton": 0.91}]}}, {"wh": "巴中仓", "day_ton": 7.822, "recent3_ton": 7.822, "status": "active", "month_ton": 7.822, "avg_ton": 7.822, "active": 39, "order_cnt": 47, "per_order_ton": 0.16642553191489362, "per_cust_ton": 0.20056410256410256, "r3_base": 39, "r3_repeat": 0, "r3_rate": 0.0, "detail": {"series": [{"day": "09-01", "ton": 7.822}], "new_n": 0, "new_ton": 0, "old_n": 39, "old_ton": 7.82, "top_cust": [{"name": "城西二楼116刘群华", "ton": 0.93}, {"name": "庞清匀", "ton": 0.51}, {"name": "王焕明", "ton": 0.46}, {"name": "厨小满", "ton": 0.44}, {"name": "彭", "ton": 0.4}], "top_item": [{"name": "【品牌】云南一级洗小葱26斤泡沫箱", "cust": 12, "ton": 2.02}, {"name": "云南一级筐西红柿粉果带把毛重40-42斤", "cust": 9, "ton": 0.4}, {"name": "云南一级香菜19斤泡沫箱", "cust": 9, "ton": 0.3}, {"name": "云南二级李二水洗葱细小葱泡沫箱", "cust": 8, "ton": 0.53}, {"name": "山东二级蒜米（中号）40斤（5斤/包）袋", "cust": 7, "ton": 0.36}], "top_cat": [{"name": "蔬菜", "ton": 7.7}, {"name": "国产水果", "ton": 0.06}, {"name": "果篮/包材", "ton": 0.04}, {"name": "进口精品水果", "ton": 0.02}]}}, {"wh": "开州仓", "day_ton": 7.5013, "recent3_ton": 7.501, "status": "active", "month_ton": 7.5013, "avg_ton": 7.5013, "active": 36, "order_cnt": 52, "per_order_ton": 0.14425576923076922, "per_cust_ton": 0.20836944444444444, "r3_base": 36, "r3_repeat": 0, "r3_rate": 0.0, "detail": {"series": [{"day": "09-01", "ton": 7.501}], "new_n": 1, "new_ton": 0.39, "old_n": 35, "old_ton": 7.11, "top_cust": [{"name": "惠优水果超市一校店", "ton": 1.25}, {"name": "罗老板", "ton": 1.1}, {"name": "宏展超市", "ton": 1.07}, {"name": "小刘蔬菜", "ton": 0.64}, {"name": "乐尔乐生鲜超市", "ton": 0.48}], "top_item": [{"name": "云南一级筐西红柿粉果带把毛重40-42斤", "cust": 8, "ton": 0.36}, {"name": "云南一级基地直供生菜大件泡沫箱", "cust": 5, "ton": 0.32}, {"name": "云南一级香菜19斤泡沫箱", "cust": 5, "ton": 0.12}, {"name": "老挝B级活动款香蕉二黄24斤/件4-5号色", "cust": 4, "ton": 0.56}, {"name": "兰州一级散花菜30斤/件泡沫箱", "cust": 4, "ton": 0.14}], "top_cat": [{"name": "蔬菜", "ton": 5.1}, {"name": "国产水果", "ton": 2.16}, {"name": "进口精品水果", "ton": 0.2}, {"name": "调料干货", "ton": 0.05}]}}, {"wh": "彭水仓", "day_ton": 4.5632, "recent3_ton": 4.563, "status": "active", "month_ton": 4.5632, "avg_ton": 4.5632, "active": 22, "order_cnt": 30, "per_order_ton": 0.15210666666666667, "per_cust_ton": 0.20741818181818183, "r3_base": 22, "r3_repeat": 0, "r3_rate": 0.0, "detail": {"series": [{"day": "09-01", "ton": 4.563}], "new_n": 2, "new_ton": 1.54, "old_n": 20, "old_ton": 3.02, "top_cust": [{"name": "老板", "ton": 1.23}, {"name": "高可会", "ton": 0.38}, {"name": "老板", "ton": 0.34}, {"name": "老板", "ton": 0.34}, {"name": "刘老板", "ton": 0.31}], "top_item": [{"name": "【品牌】云南一级洗小葱26斤泡沫箱", "cust": 6, "ton": 0.3}, {"name": "云南二级李二水洗葱细小葱泡沫箱", "cust": 5, "ton": 0.18}, {"name": "云南一级香菜19斤泡沫箱", "cust": 4, "ton": 0.07}, {"name": "兰州一级散花菜30斤/件泡沫箱", "cust": 3, "ton": 0.14}, {"name": "陕西省一级中号胡萝卜20斤袋", "cust": 3, "ton": 0.12}], "top_cat": [{"name": "蔬菜", "ton": 4.34}, {"name": "国产水果", "ton": 0.21}, {"name": "进口精品水果", "ton": 0.02}]}}, {"wh": "渠县仓", "day_ton": 3.517, "recent3_ton": 3.517, "status": "active", "month_ton": 3.517, "avg_ton": 3.517, "active": 36, "order_cnt": 45, "per_order_ton": 0.07815555555555555, "per_cust_ton": 0.09769444444444444, "r3_base": 36, "r3_repeat": 0, "r3_rate": 0.0, "detail": {"series": [{"day": "09-01", "ton": 3.517}], "new_n": 15, "new_ton": 0.97, "old_n": 21, "old_ton": 2.55, "top_cust": [{"name": "李晓伟", "ton": 0.51}, {"name": "催哥，凌晨3点之前", "ton": 0.27}, {"name": "方姐（第五幼儿园对面）", "ton": 0.19}, {"name": "蒋姐", "ton": 0.16}, {"name": "赖姐", "ton": 0.16}], "top_item": [{"name": "【品牌】云南一级洗小葱26斤泡沫箱", "cust": 7, "ton": 0.24}, {"name": "陕西省一级陕西沙地3两至6两黄心大土豆袋3两至6两", "cust": 6, "ton": 0.15}, {"name": "云南一级筐西红柿粉果带把毛重40-42斤", "cust": 5, "ton": 0.13}, {"name": "云南昭通一级油麦菜大件大颗油麦菜泡沫箱", "cust": 4, "ton": 0.4}, {"name": "云南一级水洗白小葱26斤/件泡沫箱", "cust": 3, "ton": 0.11}], "top_cat": [{"name": "蔬菜", "ton": 3.35}, {"name": "国产水果", "ton": 0.17}]}}, {"wh": "达州仓", "day_ton": 2.8594, "recent3_ton": 2.859, "status": "active", "month_ton": 2.8594, "avg_ton": 2.8594, "active": 32, "order_cnt": 34, "per_order_ton": 0.0841, "per_cust_ton": 0.08935625, "r3_base": 32, "r3_repeat": 0, "r3_rate": 0.0, "detail": {"series": [{"day": "09-01", "ton": 2.859}], "new_n": 0, "new_ton": 0, "old_n": 32, "old_ton": 2.86, "top_cust": [{"name": "杨姐", "ton": 0.26}, {"name": "邵姐", "ton": 0.24}, {"name": "臻鲜坊", "ton": 0.2}, {"name": "张哥", "ton": 0.2}, {"name": "刘姐", "ton": 0.18}], "top_item": [{"name": "云南昭通一级油麦菜大件大颗油麦菜泡沫箱", "cust": 6, "ton": 0.43}, {"name": "云南一级香菜19斤泡沫箱", "cust": 6, "ton": 0.1}, {"name": "云南一级精品牛心白15斤袋装袋", "cust": 4, "ton": 0.07}, {"name": "云南二级筐西红柿红果4层毛重40-42", "cust": 3, "ton": 0.18}, {"name": "云南二级油麦菜净重32斤泡沫箱", "cust": 3, "ton": 0.1}], "top_cat": [{"name": "蔬菜", "ton": 2.64}, {"name": "国产水果", "ton": 0.2}, {"name": "进口精品水果", "ton": 0.02}]}}, {"wh": "万州仓", "day_ton": 2.6710000000000003, "recent3_ton": 2.671, "status": "active", "month_ton": 2.6710000000000003, "avg_ton": 2.6710000000000003, "active": 25, "order_cnt": 30, "per_order_ton": 0.08903333333333334, "per_cust_ton": 0.10684, "r3_base": 25, "r3_repeat": 0, "r3_rate": 0.0, "detail": {"series": [{"day": "09-01", "ton": 2.671}], "new_n": 1, "new_ton": 0.07, "old_n": 24, "old_ton": 2.6, "top_cust": [{"name": "徐老板", "ton": 0.37}, {"name": "王小琴", "ton": 0.17}, {"name": "骆明献", "ton": 0.17}, {"name": "张", "ton": 0.16}, {"name": "丁姐", "ton": 0.16}], "top_item": [{"name": "老挝B级活动款香蕉二黄24斤/件4-5号色", "cust": 6, "ton": 0.3}, {"name": "云南昭通一级油麦菜大件大颗油麦菜泡沫箱", "cust": 5, "ton": 0.23}, {"name": "四川宜宾二级大号脆藕净重30斤泡沫箱", "cust": 3, "ton": 0.13}, {"name": "云南一级基地直供生菜大件泡沫箱", "cust": 3, "ton": 0.12}, {"name": "品牌云南一级大水白菜泡沫箱47", "cust": 3, "ton": 0.07}], "top_cat": [{"name": "蔬菜", "ton": 2.06}, {"name": "国产水果", "ton": 0.58}, {"name": "进口精品水果", "ton": 0.03}]}}, {"wh": "广安仓", "day_ton": 2.5858, "recent3_ton": 2.586, "status": "active", "month_ton": 2.5858, "avg_ton": 2.5858, "active": 17, "order_cnt": 23, "per_order_ton": 0.11242608695652173, "per_cust_ton": 0.15210588235294117, "r3_base": 17, "r3_repeat": 0, "r3_rate": 0.0, "detail": {"series": [{"day": "09-01", "ton": 2.586}], "new_n": 2, "new_ton": 0.58, "old_n": 15, "old_ton": 2.0, "top_cust": [{"name": "刘建军", "ton": 0.44}, {"name": "黄银城", "ton": 0.3}, {"name": "赵老板", "ton": 0.28}, {"name": "易老板", "ton": 0.24}, {"name": "袁小利", "ton": 0.22}], "top_item": [{"name": "【品牌】云南一级洗小葱26斤泡沫箱", "cust": 9, "ton": 1.36}, {"name": "云南一级香菜19斤泡沫箱", "cust": 3, "ton": 0.05}, {"name": "陕西省一级陕西黄心土豆6两起袋净重50斤", "cust": 2, "ton": 0.08}, {"name": "云南昭通一级油麦菜大件大颗油麦菜泡沫箱", "cust": 2, "ton": 0.07}, {"name": "广西二级仔姜净重8斤泡沫箱", "cust": 2, "ton": 0.05}], "top_cat": [{"name": "蔬菜", "ton": 2.52}, {"name": "国产水果", "ton": 0.07}]}}, {"wh": "奉节仓", "day_ton": 2.525, "recent3_ton": 2.525, "status": "active", "month_ton": 2.525, "avg_ton": 2.525, "active": 20, "order_cnt": 24, "per_order_ton": 0.10520833333333333, "per_cust_ton": 0.12625, "r3_base": 20, "r3_repeat": 0, "r3_rate": 0.0, "detail": {"series": [{"day": "09-01", "ton": 2.525}], "new_n": 14, "new_ton": 1.87, "old_n": 6, "old_ton": 0.66, "top_cust": [{"name": "老板", "ton": 0.45}, {"name": "陈姐", "ton": 0.36}, {"name": "黄姐", "ton": 0.31}, {"name": "黄姐", "ton": 0.19}, {"name": "东江宾馆", "ton": 0.13}], "top_item": [{"name": "云南昭通一级油麦菜大件大颗油麦菜泡沫箱", "cust": 6, "ton": 0.53}, {"name": "广西二级仔姜特价白口仔姜净重8斤泡沫箱", "cust": 4, "ton": 0.04}, {"name": "云南昭通一级油麦菜净重50斤泡沫箱", "cust": 3, "ton": 0.43}, {"name": "云南二级油麦菜净重32斤泡沫箱", "cust": 3, "ton": 0.05}, {"name": "【农夫山泉】饮用纯净水12瓶*550ml", "cust": 2, "ton": 0.26}], "top_cat": [{"name": "蔬菜", "ton": 2.14}, {"name": "酒水饮料", "ton": 0.26}, {"name": "国产水果", "ton": 0.12}]}}, {"wh": "遂宁仓", "day_ton": 2.3968000000000003, "recent3_ton": 2.397, "status": "active", "month_ton": 2.3968000000000003, "avg_ton": 2.3968000000000003, "active": 17, "order_cnt": 22, "per_order_ton": 0.10894545454545455, "per_cust_ton": 0.14098823529411766, "r3_base": 17, "r3_repeat": 0, "r3_rate": 0.0, "detail": {"series": [{"day": "09-01", "ton": 2.397}], "new_n": 5, "new_ton": 0.16, "old_n": 12, "old_ton": 2.24, "top_cust": [{"name": "闫四", "ton": 1.34}, {"name": "夏老板", "ton": 0.24}, {"name": "老板", "ton": 0.11}, {"name": "王三哥", "ton": 0.09}, {"name": "老板", "ton": 0.08}], "top_item": [{"name": "云南二级油麦菜净重32斤泡沫箱", "cust": 3, "ton": 0.13}, {"name": "云南一级香菜19斤泡沫箱", "cust": 3, "ton": 0.08}, {"name": "云南昭通一级油麦菜大件大颗油麦菜泡沫箱", "cust": 2, "ton": 0.1}, {"name": "云南昭通一级油麦菜净重55斤泡沫箱", "cust": 2, "ton": 0.07}, {"name": "云南一级基地直供生菜大件泡沫箱", "cust": 2, "ton": 0.06}], "top_cat": [{"name": "蔬菜", "ton": 2.38}, {"name": "国产水果", "ton": 0.01}]}}, {"wh": "大足仓", "day_ton": 1.9942, "recent3_ton": 1.994, "status": "active", "month_ton": 1.9942, "avg_ton": 1.9942, "active": 8, "order_cnt": 11, "per_order_ton": 0.18129090909090909, "per_cust_ton": 0.249275, "r3_base": 8, "r3_repeat": 0, "r3_rate": 0.0, "detail": {"series": [{"day": "09-01", "ton": 1.994}], "new_n": 0, "new_ton": 0, "old_n": 8, "old_ton": 1.99, "top_cust": [{"name": "杨超伟", "ton": 1.25}, {"name": "周", "ton": 0.23}, {"name": "龙水蔬菜批发", "ton": 0.22}, {"name": "李老板", "ton": 0.11}, {"name": "杨长萍", "ton": 0.08}], "top_item": [{"name": "陕西三级新黄皮黄心土豆大袋6两起", "cust": 2, "ton": 0.25}, {"name": "云南昭通一级油麦菜净重55斤泡沫箱", "cust": 2, "ton": 0.24}, {"name": "【品牌】云南一级洗小葱26斤泡沫箱", "cust": 2, "ton": 0.04}, {"name": "云南一级红小米辣净重19斤/件泡沫箱", "cust": 2, "ton": 0.02}, {"name": "四川二级薄皮青椒25斤净重纸箱", "cust": 1, "ton": 0.14}], "top_cat": [{"name": "蔬菜", "ton": 1.93}, {"name": "国产水果", "ton": 0.06}]}}, {"wh": "合川仓", "day_ton": 1.827, "recent3_ton": 1.827, "status": "active", "month_ton": 1.827, "avg_ton": 1.827, "active": 20, "order_cnt": 27, "per_order_ton": 0.06766666666666667, "per_cust_ton": 0.09135, "r3_base": 20, "r3_repeat": 0, "r3_rate": 0.0, "detail": {"series": [{"day": "09-01", "ton": 1.827}], "new_n": 0, "new_ton": 0, "old_n": 20, "old_ton": 1.83, "top_cust": [{"name": "林老板", "ton": 0.36}, {"name": "杨", "ton": 0.19}, {"name": "邓英", "ton": 0.18}, {"name": "李", "ton": 0.13}, {"name": "陈老板", "ton": 0.12}], "top_item": [{"name": "陕西省一级陕西沙地3两至6两黄心大土豆袋3两至6两", "cust": 4, "ton": 0.15}, {"name": "陕西二级市场黄心土豆6两起袋净重50斤", "cust": 3, "ton": 0.13}, {"name": "云南二级筐西红柿红果4层毛重40-42", "cust": 3, "ton": 0.06}, {"name": "【品牌】云南一级洗小葱26斤泡沫箱", "cust": 3, "ton": 0.06}, {"name": "老挝B级活动款香蕉二黄24斤/件4-5号色", "cust": 3, "ton": 0.05}], "top_cat": [{"name": "蔬菜", "ton": 1.56}, {"name": "国产水果", "ton": 0.23}, {"name": "进口精品水果", "ton": 0.02}, {"name": "调料干货", "ton": 0.01}]}}, {"wh": "城口仓", "day_ton": 1.724, "recent3_ton": 1.724, "status": "active", "month_ton": 1.724, "avg_ton": 1.724, "active": 15, "order_cnt": 17, "per_order_ton": 0.10141176470588235, "per_cust_ton": 0.11493333333333333, "r3_base": 15, "r3_repeat": 0, "r3_rate": 0.0, "detail": {"series": [{"day": "09-01", "ton": 1.724}], "new_n": 0, "new_ton": 0, "old_n": 15, "old_ton": 1.72, "top_cust": [{"name": "甘老板娘", "ton": 0.44}, {"name": "城口海超蔬菜", "ton": 0.27}, {"name": "城口兴超蔬菜水果批发", "ton": 0.17}, {"name": "城口鑫洋生鲜超市", "ton": 0.12}, {"name": "曾姐", "ton": 0.11}], "top_item": [{"name": "四川宜宾二级大号脆藕净重30斤泡沫箱", "cust": 4, "ton": 0.07}, {"name": "云南一级红小米辣净重19斤/件泡沫箱", "cust": 3, "ton": 0.03}, {"name": "云南昭通一级油麦菜大件大颗油麦菜泡沫箱", "cust": 2, "ton": 0.07}, {"name": "云南一级筐西红柿粉果带把毛重40-42斤", "cust": 2, "ton": 0.04}, {"name": "银川一级活动款银川白玉山药白玉山药面山药20斤袋装袋", "cust": 2, "ton": 0.04}], "top_cat": [{"name": "蔬菜", "ton": 1.16}, {"name": "米面油蛋", "ton": 0.44}, {"name": "国产水果", "ton": 0.12}]}}, {"wh": "涪陵仓", "day_ton": 1.6095, "recent3_ton": 1.609, "status": "active", "month_ton": 1.6095, "avg_ton": 1.6095, "active": 18, "order_cnt": 20, "per_order_ton": 0.08047499999999999, "per_cust_ton": 0.08941666666666666, "r3_base": 18, "r3_repeat": 0, "r3_rate": 0.0, "detail": {"series": [{"day": "09-01", "ton": 1.609}], "new_n": 1, "new_ton": 0.09, "old_n": 17, "old_ton": 1.52, "top_cust": [{"name": "零小贤生鲜果蔬", "ton": 0.22}, {"name": "周老板", "ton": 0.22}, {"name": "新纪元陈兴琪", "ton": 0.16}, {"name": "老板", "ton": 0.14}, {"name": "瞿先生", "ton": 0.12}], "top_item": [{"name": "云南一级基地直供生菜大件泡沫箱", "cust": 2, "ton": 0.12}, {"name": "【品牌】云南一级洗小葱26斤泡沫箱", "cust": 2, "ton": 0.06}, {"name": "品牌云南一级竹筒白泡沫箱54", "cust": 2, "ton": 0.05}, {"name": "河南二级大蒜5.0-5.5大蒜20斤袋", "cust": 2, "ton": 0.03}, {"name": "四川B级【泓渝】嘉秀6号口口脆2号箱纸箱", "cust": 2, "ton": 0.02}], "top_cat": [{"name": "蔬菜", "ton": 1.24}, {"name": "国产水果", "ton": 0.37}]}}, {"wh": "黔江仓", "day_ton": 1.5033, "recent3_ton": 1.503, "status": "active", "month_ton": 1.5033, "avg_ton": 1.5033, "active": 19, "order_cnt": 23, "per_order_ton": 0.06536086956521739, "per_cust_ton": 0.07912105263157895, "r3_base": 19, "r3_repeat": 0, "r3_rate": 0.0, "detail": {"series": [{"day": "09-01", "ton": 1.503}], "new_n": 1, "new_ton": 0.08, "old_n": 18, "old_ton": 1.42, "top_cust": [{"name": "凯旭蔬菜配送", "ton": 0.18}, {"name": "U鲜果", "ton": 0.17}, {"name": "何哥", "ton": 0.14}, {"name": "黄姐", "ton": 0.12}, {"name": "高姐", "ton": 0.12}], "top_item": [{"name": "【品牌】云南一级洗小葱26斤泡沫箱", "cust": 4, "ton": 0.08}, {"name": "【品牌】兰州一级八条西兰花原件小件净重15斤泡沫箱", "cust": 3, "ton": 0.04}, {"name": "云南昭通一级油麦菜大件大颗油麦菜泡沫箱", "cust": 2, "ton": 0.1}, {"name": "【品牌】甘肃一级泡沫箱散花菜35泡沫箱", "cust": 2, "ton": 0.06}, {"name": "云南一级精品牛心白30斤30斤泡沫箱", "cust": 2, "ton": 0.05}], "top_cat": [{"name": "蔬菜", "ton": 1.09}, {"name": "国产水果", "ton": 0.34}, {"name": "酒水饮料", "ton": 0.06}, {"name": "进口精品水果", "ton": 0.02}]}}, {"wh": "宣汉仓", "day_ton": 1.427, "recent3_ton": 1.427, "status": "active", "month_ton": 1.427, "avg_ton": 1.427, "active": 12, "order_cnt": 16, "per_order_ton": 0.0891875, "per_cust_ton": 0.11891666666666667, "r3_base": 12, "r3_repeat": 0, "r3_rate": 0.0, "detail": {"series": [{"day": "09-01", "ton": 1.427}], "new_n": 0, "new_ton": 0, "old_n": 12, "old_ton": 1.43, "top_cust": [{"name": "陈老板", "ton": 0.51}, {"name": "曾", "ton": 0.35}, {"name": "熊安兵", "ton": 0.16}, {"name": "老板", "ton": 0.11}, {"name": "老板", "ton": 0.06}], "top_item": [{"name": "云南昭通一级油麦菜大件大颗油麦菜泡沫箱", "cust": 2, "ton": 0.1}, {"name": "云南一级水洗白小葱26斤/件泡沫箱", "cust": 2, "ton": 0.07}, {"name": "云南二级油麦菜净重32斤泡沫箱", "cust": 2, "ton": 0.06}, {"name": "重庆一级大号藕30斤泡沫箱", "cust": 2, "ton": 0.06}, {"name": "云南一级筐西红柿粉果带把毛重40-42斤", "cust": 2, "ton": 0.06}], "top_cat": [{"name": "蔬菜", "ton": 1.42}, {"name": "国产水果", "ton": 0.01}]}}, {"wh": "大竹仓", "day_ton": 1.3875, "recent3_ton": 1.387, "status": "active", "month_ton": 1.3875, "avg_ton": 1.3875, "active": 14, "order_cnt": 14, "per_order_ton": 0.09910714285714285, "per_cust_ton": 0.09910714285714285, "r3_base": 14, "r3_repeat": 0, "r3_rate": 0.0, "detail": {"series": [{"day": "09-01", "ton": 1.387}], "new_n": 10, "new_ton": 0.92, "old_n": 4, "old_ton": 0.46, "top_cust": [{"name": "波波果蔬", "ton": 0.29}, {"name": "江哥", "ton": 0.25}, {"name": "罗姐", "ton": 0.14}, {"name": "杨哥", "ton": 0.13}, {"name": "黄老板", "ton": 0.11}], "top_item": [{"name": "【品牌】云南一级洗小葱26斤泡沫箱", "cust": 4, "ton": 0.1}, {"name": "云南一级大水白菜泡沫箱大件", "cust": 3, "ton": 0.08}, {"name": "陕西二级市场黄心土豆6两起袋净重50斤", "cust": 2, "ton": 0.08}, {"name": "云南昭通一级油麦菜大件大颗油麦菜泡沫箱", "cust": 2, "ton": 0.07}, {"name": "云南一级基地直供生菜大件泡沫箱", "cust": 2, "ton": 0.06}], "top_cat": [{"name": "蔬菜", "ton": 1.28}, {"name": "国产水果", "ton": 0.11}]}}, {"wh": "巫山仓", "day_ton": 1.3055, "recent3_ton": 1.306, "status": "active", "month_ton": 1.3055, "avg_ton": 1.3055, "active": 13, "order_cnt": 13, "per_order_ton": 0.10042307692307693, "per_cust_ton": 0.10042307692307693, "r3_base": 13, "r3_repeat": 0, "r3_rate": 0.0, "detail": {"series": [{"day": "09-01", "ton": 1.306}], "new_n": 7, "new_ton": 0.76, "old_n": 6, "old_ton": 0.54, "top_cust": [{"name": "郭", "ton": 0.33}, {"name": "云哥", "ton": 0.17}, {"name": "弋老板", "ton": 0.13}, {"name": "陈增兰", "ton": 0.12}, {"name": "李哥", "ton": 0.11}], "top_item": [{"name": "云南昭通一级油麦菜大件大颗油麦菜泡沫箱", "cust": 3, "ton": 0.26}, {"name": "云南二级染红土老姜干姜普通净重37斤袋", "cust": 2, "ton": 0.13}, {"name": "甘肃一级红洋葱粉皮洋葱4两起80斤/袋", "cust": 2, "ton": 0.12}, {"name": "江苏一级大蒜6.5江苏蒜净重40斤袋", "cust": 2, "ton": 0.04}, {"name": "云南一级香菜19斤泡沫箱", "cust": 2, "ton": 0.03}], "top_cat": [{"name": "蔬菜", "ton": 1.28}, {"name": "酒水饮料", "ton": 0.01}, {"name": "国产水果", "ton": 0.01}]}}, {"wh": "铜梁仓", "day_ton": 1.1953, "recent3_ton": 1.195, "status": "active", "month_ton": 1.1953, "avg_ton": 1.1953, "active": 2, "order_cnt": 2, "per_order_ton": 0.59765, "per_cust_ton": 0.59765, "r3_base": 2, "r3_repeat": 0, "r3_rate": 0.0, "detail": {"series": [{"day": "09-01", "ton": 1.195}], "new_n": 0, "new_ton": 0, "old_n": 2, "old_ton": 1.2, "top_cust": [{"name": "刘颖", "ton": 1.09}, {"name": "金泉超市总账号", "ton": 0.1}], "top_item": [{"name": "云南昭通一级油麦菜大件大颗油麦菜泡沫箱", "cust": 1, "ton": 0.2}, {"name": "云南一级生菜大件泡沫箱", "cust": 1, "ton": 0.14}, {"name": "甘肃天水B级【溶柒森】（新苹果）红富士70—75#", "cust": 1, "ton": 0.1}, {"name": "【品牌】重庆二级二脆莲白50散装", "cust": 1, "ton": 0.1}, {"name": "广西二级仔姜普通仔姜8斤/件泡沫箱", "cust": 1, "ton": 0.09}], "top_cat": [{"name": "蔬菜", "ton": 1.09}, {"name": "国产水果", "ton": 0.1}]}}, {"wh": "忠县仓", "day_ton": 1.0006, "recent3_ton": 1.001, "status": "active", "month_ton": 1.0006, "avg_ton": 1.0006, "active": 16, "order_cnt": 17, "per_order_ton": 0.05885882352941176, "per_cust_ton": 0.0625375, "r3_base": 16, "r3_repeat": 0, "r3_rate": 0.0, "detail": {"series": [{"day": "09-01", "ton": 1.001}], "new_n": 0, "new_ton": 0, "old_n": 16, "old_ton": 1.0, "top_cust": [{"name": "刘老板", "ton": 0.12}, {"name": "张老板", "ton": 0.12}, {"name": "蒋淑梅", "ton": 0.1}, {"name": "张老板", "ton": 0.09}, {"name": "吴姐1号摊位", "ton": 0.08}], "top_item": [{"name": "【品牌】云南一级洗小葱26斤泡沫箱", "cust": 3, "ton": 0.1}, {"name": "【高复购】陕西二级白萝卜净重59斤袋", "cust": 2, "ton": 0.09}, {"name": "云南一级基地直供生菜大件泡沫箱", "cust": 2, "ton": 0.06}, {"name": "云南一级香菜19斤泡沫箱", "cust": 2, "ton": 0.05}, {"name": "【品牌】山东一级优质黄瓜净重40斤泡沫箱", "cust": 2, "ton": 0.05}], "top_cat": [{"name": "蔬菜", "ton": 0.88}, {"name": "国产水果", "ton": 0.12}]}}, {"wh": "开江仓", "day_ton": 0.6701, "recent3_ton": 0.67, "status": "active", "month_ton": 0.6701, "avg_ton": 0.6701, "active": 7, "order_cnt": 11, "per_order_ton": 0.06091818181818182, "per_cust_ton": 0.09572857142857143, "r3_base": 7, "r3_repeat": 0, "r3_rate": 0.0, "detail": {"series": [{"day": "09-01", "ton": 0.67}], "new_n": 1, "new_ton": 0.0, "old_n": 6, "old_ton": 0.67, "top_cust": [{"name": "陈总", "ton": 0.25}, {"name": "罗姐", "ton": 0.22}, {"name": "马总", "ton": 0.12}, {"name": "吴老板", "ton": 0.04}, {"name": "蒋姐", "ton": 0.02}], "top_item": [{"name": "云南一级上海青泡沫箱小件", "cust": 2, "ton": 0.04}, {"name": "云南昭通一级油麦菜净重50斤泡沫箱", "cust": 1, "ton": 0.07}, {"name": "甘肃一级红洋葱50斤粉皮洋葱3两起大果袋", "cust": 1, "ton": 0.05}, {"name": "云南二级西红柿四层红果不带把筐净重40斤", "cust": 1, "ton": 0.04}, {"name": "宁夏B级金花一号硒砂瓜石头瓜毛重17-24/斤/个", "cust": 1, "ton": 0.04}], "top_cat": [{"name": "蔬菜", "ton": 0.6}, {"name": "国产水果", "ton": 0.07}]}}, {"wh": "双福自提仓", "day_ton": 0.12, "recent3_ton": 0.12, "status": "active", "month_ton": 0.12, "avg_ton": 0.12, "active": 1, "order_cnt": 1, "per_order_ton": 0.12, "per_cust_ton": 0.12, "r3_base": 1, "r3_repeat": 0, "r3_rate": 0.0, "detail": {"series": [{"day": "09-01", "ton": 0.12}], "new_n": 0, "new_ton": 0, "old_n": 1, "old_ton": 0.12, "top_cust": [{"name": "周", "ton": 0.12}], "top_item": [{"name": "新悦天然泉水24瓶*510ml", "cust": 1, "ton": 0.12}], "top_cat": [{"name": "酒水饮料", "ton": 0.12}]}}], "daily": [{"day": "09-01", "ton": 65.509, "cust": 390}], "new_daily": [{"day": "09-01", "n": 60}], "meta": {"year": 2026, "month": 9, "stat_day": "2026-09-01", "in_progress": "2026-09-02", "grab_time": "2026-09-02 14:43", "member_time": "2026-09-02 14:44", "order_file": "订单_202609.xlsx", "member_file": "会员.xlsx", "as_file": "", "range": "2026-09-01 ~ 2026-09-01", "gen_time": "2026-09-02 14:45"}};</script>
 <script>
 const D = window.__DATA__;
 const fmt = (n, d=2) => Number(n).toLocaleString('zh-CN', {minimumFractionDigits:d, maximumFractionDigits:d});
